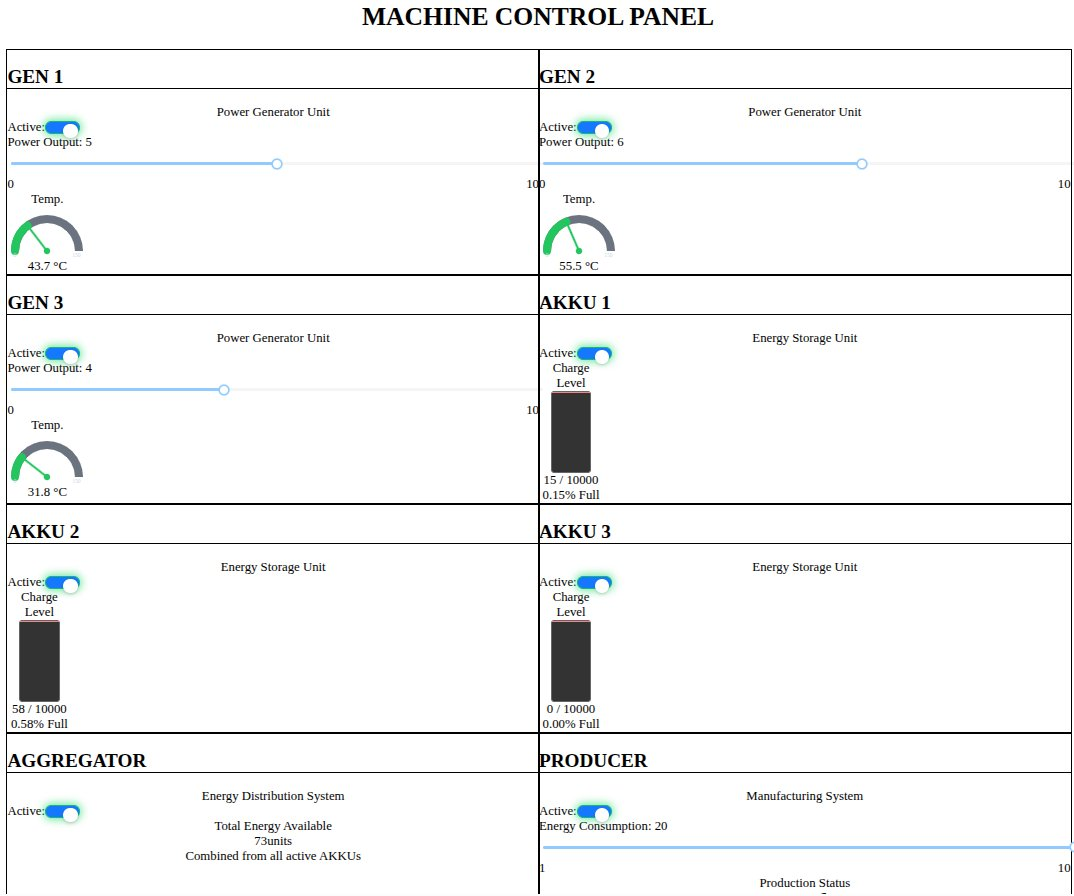
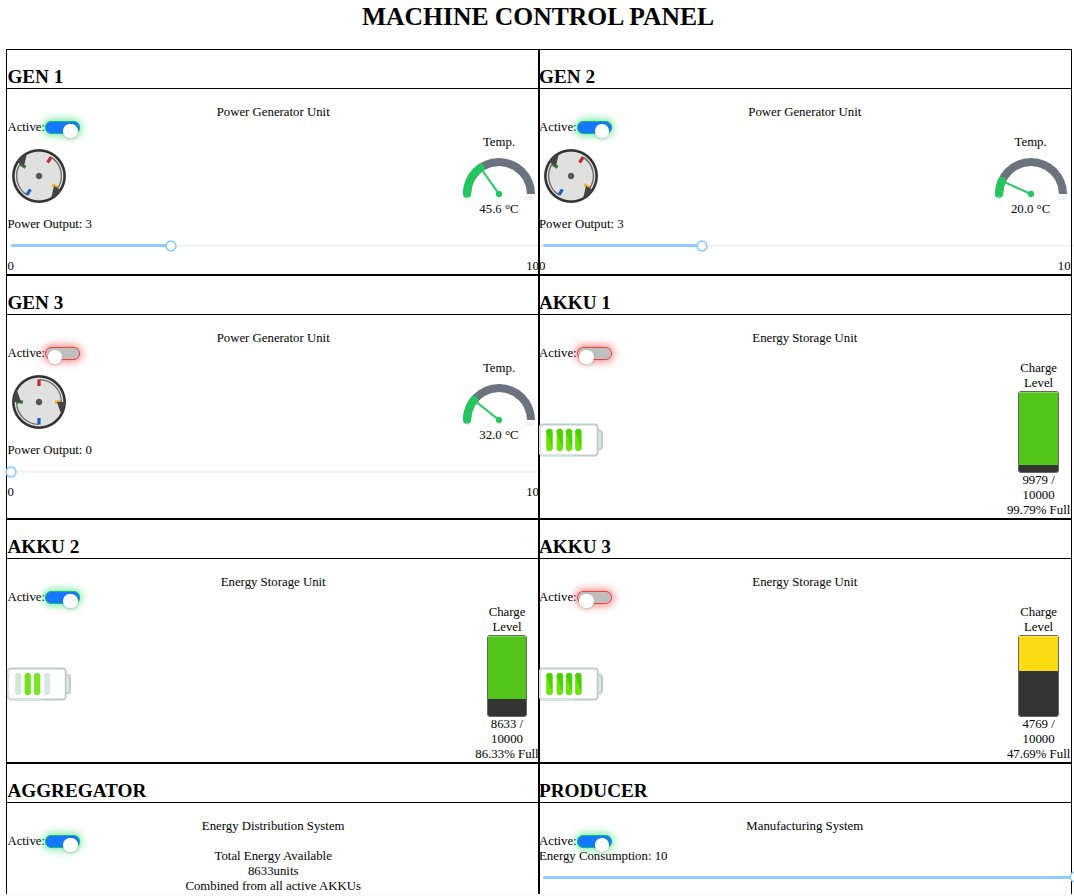
SVG

diff --git a/machine-frontend/src/App.tsx b/machine-frontend/src/App.tsx
@@ -6,6 +6,8 @@ import SevenSegmentDisplay from './components/SevenSegmentDisplay';
 import LedFillLevelStrip from './components/LedFillLevelStrip';
 import CapacityMeter from './components/CapacityMeter';
 import Plotter from './components/Plotter';
+import GeneratorDisplay from './components/GeneratorDisplay';
+import BatteryDisplay from './components/BatteryDisplay';
 
 interface MachineVariables {
   "generator1.value": number;
@@ -134,6 +136,19 @@ function App() {
                     onToggle={() => updateBackendVariable(activeKey, !machineState[activeKey])}
                   />
                 </div>
+                <div className="flex items-center justify-between mt-2">
+                  <GeneratorDisplay 
+                    isActive={machineState[activeKey] as boolean}
+                    width={80}
+                    height={80}
+                  />
+                  <GaugeDisplay
+                    label="Temp."
+                    value={machineState[tempKey] as number}
+                    minValue={0} maxValue={150} units="°C"
+                    width={100} height={65}
+                  />
+                </div>
                 <SliderControl
                   label="Power Output"
                   value={machineState[valueKey] as number}
@@ -141,12 +156,6 @@ function App() {
                   onChange={(val) => updateBackendVariable(valueKey, val)}
                 />
               </div>
-              <GaugeDisplay
-                label="Temp."
-                value={machineState[tempKey] as number}
-                minValue={0} maxValue={150} units="°C"
-                width={100} height={65}
-              />
             </ComponentCard>
           );
         })}
@@ -167,12 +176,19 @@ function App() {
                     onToggle={() => updateBackendVariable(activeKey, !machineState[activeKey])}
                   />
                 </div>
-                <CapacityMeter
-                  label="Charge Level"
-                  value={Number(machineState[valueKey])}
-                  maxValue={Number(machineState[capacityKey])}
-                  width={80} height={100}
-                />
+                <div className="flex items-center justify-between mt-2">
+                  <BatteryDisplay 
+                    isActive={machineState[activeKey] as boolean}
+                    width={80}
+                    height={80}
+                  />
+                  <CapacityMeter
+                    label="Charge Level"
+                    value={Number(machineState[valueKey])}
+                    maxValue={Number(machineState[capacityKey])}
+                    width={80} height={100}
+                  />
+                </div>
               </div>
             </ComponentCard>
           );

diff --git a/machine-frontend/src/components/GeneratorDisplay.tsx b/machine-frontend/src/components/GeneratorDisplay.tsx
@@ -1,0 +1,32 @@
+import React from 'react';
+
+interface GeneratorDisplayProps {
+  isActive: boolean;
+  width?: number;
+  height?: number;
+}
+
+const GeneratorDisplay: React.FC<GeneratorDisplayProps> = ({
+  isActive,
+  width = 80,
+  height = 80,
+}) => {
+  // Use the appropriate SVG based on the active state
+  const svgPath = isActive 
+    ? '/generatorOn.svg' 
+    : '/generator.svg';
+
+  return (
+    <div className="flex flex-col items-center justify-center">
+      <img 
+        src={svgPath} 
+        alt={isActive ? "Active Generator" : "Inactive Generator"} 
+        width={width} 
+        height={height}
+        className="object-contain"
+      />
+    </div>
+  );
+};
+
+export default GeneratorDisplay;

diff --git a/machine-frontend/src/components/BatteryDisplay.tsx b/machine-frontend/src/components/BatteryDisplay.tsx
@@ -1,0 +1,32 @@
+import React from 'react';
+
+interface BatteryDisplayProps {
+  isActive: boolean;
+  width?: number;
+  height?: number;
+}
+
+const BatteryDisplay: React.FC<BatteryDisplayProps> = ({
+  isActive,
+  width = 80,
+  height = 80,
+}) => {
+  // Use the appropriate SVG based on the active state
+  const svgPath = isActive 
+    ? '/batteryOn.svg' 
+    : '/battery.svg';
+
+  return (
+    <div className="flex flex-col items-center justify-center ml-10">
+      <img 
+        src={svgPath} 
+        alt={isActive ? "Active Battery" : "Inactive Battery"} 
+        width={width} 
+        height={height}
+        className="object-contain"
+      />
+    </div>
+  );
+};
+
+export default BatteryDisplay;
